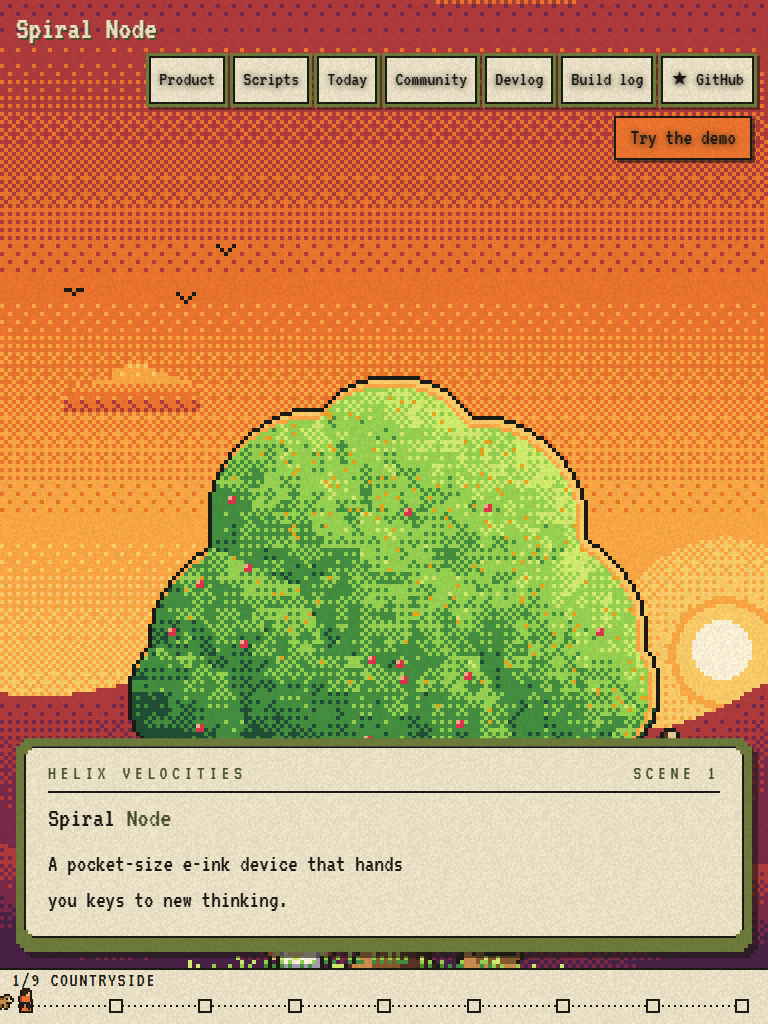
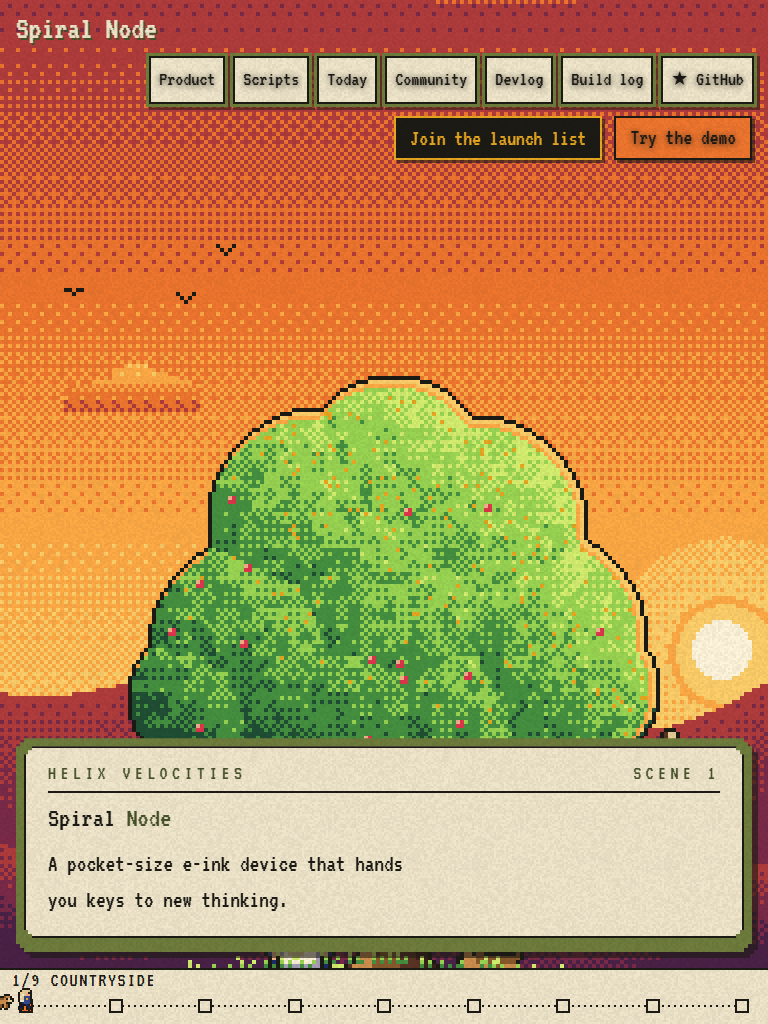
Search engines welcome again, header fits one row, changelog [deploy]

Changed region(s): [[0.5, 0.0938, 0.8125, 0.1562], [0.0, 0.9688, 0.0625, 1.0]]

diff --git a/website/tests/e2e/home.spec.ts b/website/tests/e2e/home.spec.ts
@@ -240,18 +240,28 @@ for (const [width, height] of [[360, 800], [390, 844]]) {
   });
 }
 
-test("at 800 px Try the demo sits on the GitHub row", async ({ page }) => {
+test("at 800 px Try the demo sits on the launch list button's row", async ({ page }) => {
   await page.setViewportSize({ width: 800, height: 800 });
   await page.goto("/");
   const demo = await rect(page.locator("header").getByRole("link", { name: "Try the demo" }));
-  const github = await rect(page.locator("header").getByRole("link", { name: /GitHub/ }));
-  expect(Math.abs(demo.y + demo.h / 2 - (github.y + github.h / 2))).toBeLessThan(8);
+  const launch = await rect(page.locator("header").getByRole("button", { name: "Join the launch list" }));
+  expect(Math.abs(demo.y + demo.h / 2 - (launch.y + launch.h / 2))).toBeLessThan(8);
 });
 
-test("desktop: Tab goes from GitHub to Try the demo", async ({ page }) => {
+test("desktop: header is one row at 1280 and 1400", async ({ page }) => {
+  for (const width of [1280, 1400]) {
+    await page.setViewportSize({ width, height: 800 });
+    await page.goto("/");
+    expect((await rect(page.locator("header"))).h, `header at ${width}`).toBeLessThanOrEqual(64);
+  }
+});
+
+test("desktop: Tab goes from GitHub to the launch list to Try the demo", async ({ page }) => {
   await page.setViewportSize({ width: 1280, height: 800 });
   await page.goto("/");
   await page.locator("header").getByRole("link", { name: /GitHub/ }).focus();
+  await page.keyboard.press("Tab");
+  await expect(page.locator("header").getByRole("button", { name: "Join the launch list" })).toBeFocused();
   await page.keyboard.press("Tab");
   await expect(page.locator("header").getByRole("link", { name: "Try the demo" })).toBeFocused();
 });

diff --git a/website/lib/site.ts b/website/lib/site.ts
@@ -2,7 +2,7 @@
 const repoUrl = "https://github.com/trooper7652-commits/spiral-node";
 
 export const SITE = {
-  siteUrl: "https://spiral-node-helix-velocities.vercel.app", // production address: confirm at launch (launch checklist)
+  siteUrl: "https://spiral-node-helix-velocities.vercel.app", // Vercel production address; change when a custom domain is added
   repoUrl,
   repoApi: "https://api.github.com/repos/trooper7652-commits/spiral-node",
   discussionsUrl: `${repoUrl}/discussions`,
@@ -10,7 +10,7 @@ export const SITE = {
   newsletterFormUrl: "https://app.kit.com/forms/10243544/subscriptions", // Kit form "Spiral Node launch list"; empty = popup hidden (except with ?popup=now)
   newsletterEmailField: "email_address", // the hosted form's email field name: "email" (Buttondown) or "email_address" (Kit)
   social: { youtube: "", tiktok: "", instagram: "", bluesky: "", x: "" }, // paste each full https profile URL; empty = hidden
-  indexable: false,
+  indexable: true,
   opening: "first" as "first" | "always" | "off", // the scroll-played opening: "first" = first visit only, "always" = every visit, "off" = never
   welcomeFields: { firstName: "fields[first_name]", occupation: "fields[occupation]", broughtHere: "fields[brought_here]" },
   welcomeExtraFields: true,

diff --git a/website/tests/e2e/pages.spec.ts b/website/tests/e2e/pages.spec.ts
@@ -78,8 +78,8 @@ test('build log shows "First photos coming soon" with no entries', async ({ page
 test("changelog lists v0.1.0", async ({ page }) => {
   await page.goto("/changelog");
   await expect(page.getByRole("heading", { level: 1 })).toHaveText("Changelog");
-  await expect(page.getByRole("heading", { name: "v0.1.0 (2026-11-16)" })).toBeVisible();
-  await expect(page.locator("main")).toContainText("open hardware files");
+  await expect(page.getByRole("heading", { name: "v0.1.0 (2026-11-21)" })).toBeVisible();
+  await expect(page.locator("main")).toContainText("open hardware notes");
 });
 
 test("home links to the script gallery and the latest devlog entry", async ({ page }) => {

diff --git a/website/components/SiteHeader.module.css b/website/components/SiteHeader.module.css
@@ -21,7 +21,8 @@
 .menu { display: contents; }
 .toggle { display: none; }
 .nav { display: flex; flex-wrap: wrap; align-items: center; justify-content: flex-end; gap: var(--s2) 22px; }
-@media (min-width: 760px) and (max-width: 1099.98px) {
+/* compact up to 1400 px so the header (with the launch list button) stays one row at 1280 */
+@media (min-width: 760px) and (max-width: 1399.98px) {
   .header .nav { gap: 14px 12px; }
   .header .nav a:not(.cta) { font-size: 20px; padding: 1px 8px 3px; }
 }

diff --git a/CHANGELOG.md b/CHANGELOG.md
@@ -4,19 +4,16 @@ All notable changes to Spiral Node are listed here. The format follows Keep a Ch
 
 ## Unreleased
 
-- Added: a page and share image for every script
-- Added: write a script in the browser and submit it
-- Added: Script of the Month page
-- Added: Chess Puzzles and Poems script packs
-- Added: picture pages, today() and single-file scripts in the OS
-- Added: a product page and a Visit us page
-- Added: a credits page
-- Changed: the home page is a story told by scrolling, with painted scenes
-- Changed: a classical painted look across the site
-- Changed: Manrope type across the site
+- Changed: the home page is a story told by scrolling, in pixel art
+- Changed: VT323 type across the site
+- Added: a Join the launch list button in the header, and the sign-up form
+- Added: a product page, a Visit us page and a credits page
 
-## v0.1.0 (2026-11-16)
+## v0.1.0 (2026-11-21)
 
-- Added: the Spiral Node OS with Connect, Fun Fact + Question and Quick Story
-- Added: the website and browser simulator
-- Added: open hardware files
+- Added: Spiral OS with seven built-in scripts: Fun Fact + Question, Quick Story, Connect, Chess Puzzles (solved one move at a time), Poems (public domain), On This Day and Space Facts
+- Added: picture pages, today() and single-file scripts for script writers
+- Added: Back and Home buttons
+- Added: the website and in-browser simulator, with a page and share image for every script
+- Added: the Today page, the in-browser script editor with Submit, Script of the Month (starts January 2027), design explorations, the build log and this changelog
+- Added: the pager design (prototype in progress) and open hardware notes
